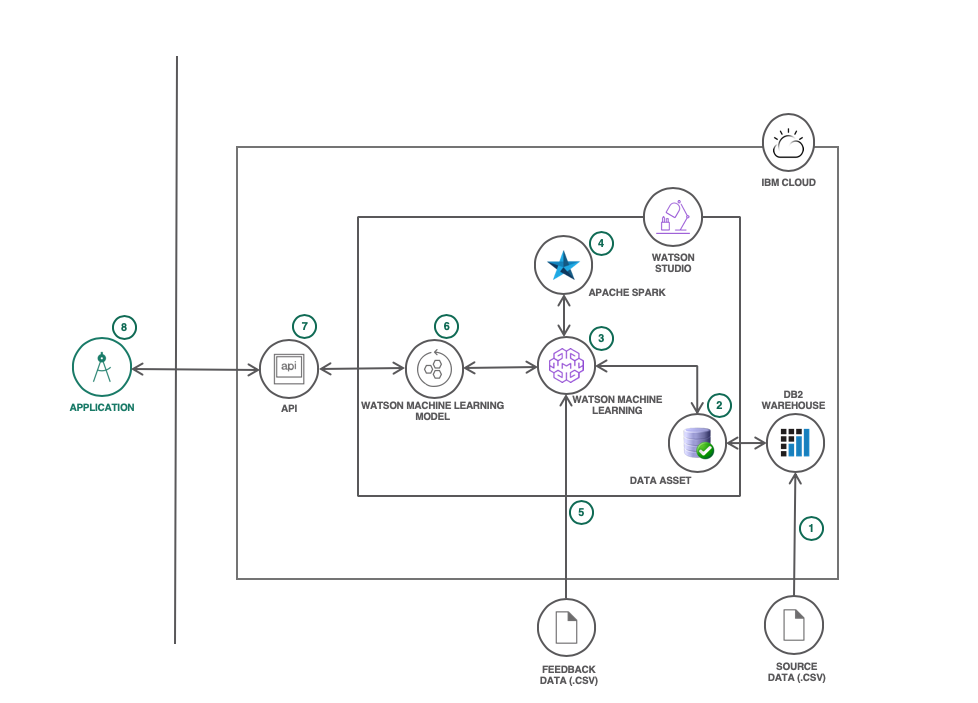
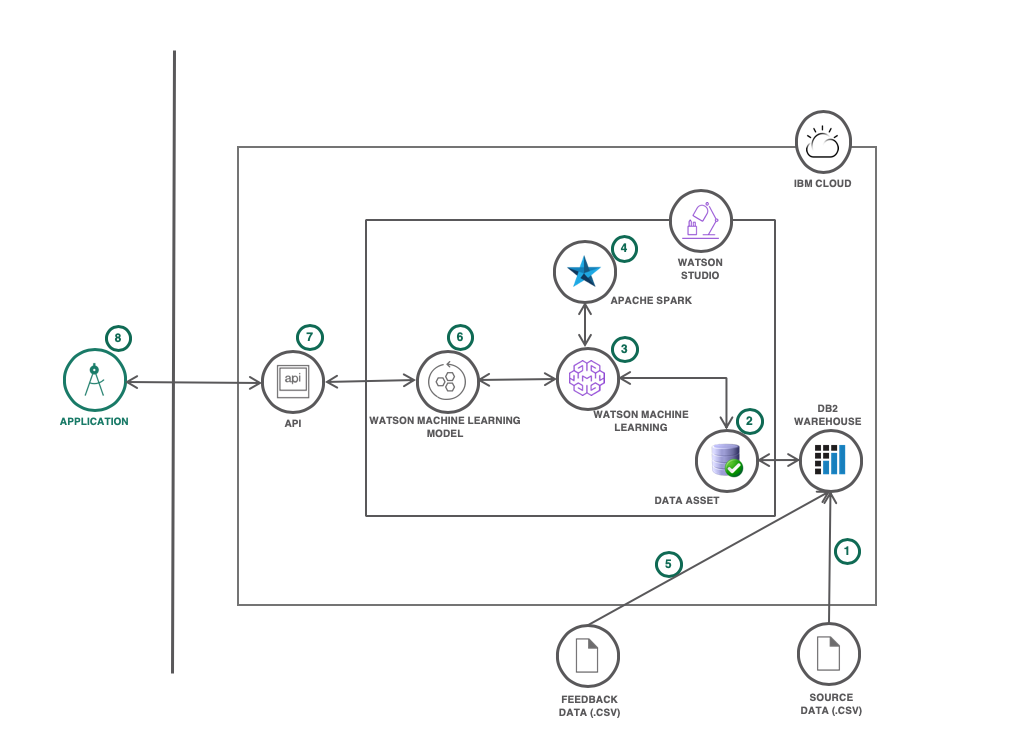
readme changes after adding data asset and feedback data from db2 warehouse

Changed region(s): [[0.0613, 0.0896, 0.8589, 0.9858], [0.2454, 0.1494, 0.8589, 0.2688], [0.5521, 0.6871, 0.6135, 0.7468]]

diff --git a/README.md b/README.md
@@ -18,7 +18,7 @@ When the reader has completed this Code Pattern, they will understand how to:
 2. The source data is then loaded, as data asset, into Watson Studio.
 3. The Watson Machine Learning service uses the source data and computes an evaluation using Apache Spark-as-a-service to create a machine learning model, and saves the evaluation information back to the Db2 Warehouse on Cloud database.
 4. Apache Spark-as-a-service to compute the evaluation.
-5. Feedback data is uploaded to Watson machine learning service to continuously learn and evaluate the new data.
+5. Feedback data is uploaded to the feedback table in DB2 warehouse.
 6. Once the evaluation is done the Watson Machine Learning service creates a machine learning model.
 7. The model data is exposed through an API.
 8. Applications can use the API to evaluate new data and create a new model based on continuous learning.
@@ -40,7 +40,7 @@ When the reader has completed this Code Pattern, they will understand how to:
 
 # Watch the Video
 
-[![](http://img.youtube.com/vi/HCVxGMd1RiQ/0.jpg)](https://www.youtube.com/watch?v=HCVxGMd1RiQ)
+coming soon
 
 
 # Steps
@@ -49,14 +49,15 @@ The setup is done in 3 primary steps.  You will download the code, setup the app
 
 1. [Clone the repo](#1-clone-the-repo)
 2. [Create Watson Studio Project](#2-create-watson-studio-project)
-3. [Add and Refine data asset into Watson Studio](#3-add-and-refine-data-asset-into-watson-studio)
-4. [Create a Db2 Warehouse on Cloud database and add the connection to Watson Studio](#4-create-db2-warehouse-on-cloud-and-add-the-connection-to-watson-studio)
-5. [Create Apache Spark as a service with IBM Cloud](#5-create-apache-spark-as-a-service-with-ibm-cloud)
-6. [Create Watson Machine Learning with IBM Cloud](#6-create-watson-machine-learning-with-ibm-cloud)
-7. [Add new Watson Machine Learning Model to Watson Studio](#7-add-new-watson-machine-learning-model-to-watson-studio)
-8. [Add Feedback data and new evaluations to the continuously learning model](#8-add-feedback-data-and-new-evaluations-to-the-continuously-learning-model)
-9. [Deploy the model to expose it through an API](#9-deploy-the-model-to-expose-it-through-an-api)
-10. [Test the model](#10-test-the-model)
+3. [Create DB2 warehouse on cloud and add the connection to Watson Studio](#3-create-db2-warehouse-on-cloud-and-add-the-connection-to-watson-studio)
+4. [Create and load data to DB2 warehouse](#4-create-and-load-data-to-db2-warehouse)
+5. [Add connected asset into Watson Studio](#5-add-connected-asset-into-watson-studio)
+6. [Create Apache Spark as a service with IBM Cloud](#6-create-apache-spark-as-a-service-with-ibm-cloud)
+7. [Create Watson Machine Learning with IBM Cloud](#7-create-watson-machine-learning-with-ibm-cloud)
+8. [Add new Watson Machine Learning Model to Watson Studio](#8-add-new-watson-machine-learning-model-to-watson-studio)
+9. [Add Feedback data and new evaluations to the continuously learning model](#9-add-feedback-data-and-new-evaluations-to-the-continuously-learning-model)
+10. [Deploy the model to expose it through an API](#10-deploy-the-model-to-expose-it-through-an-api)
+11. [Test the model](#11-test-the-model)
 
 
 ### 1. Clone the repo
@@ -87,19 +88,7 @@ Create a new Project by clicking the `New Project` link, choose `Complete`, give
 ![](doc/source/images/watson-studio-3.png)
 
 
-### 3. Add and Refine data asset into Watson Studio
-
-In Watson Studio, go to your project and select the `Assets` tab. From the right navigation panel, click `Browse` to upload your source data that will be used by the machine learning service to create a machine learning model.
-
-![](doc/source/images/data-asset-1.png)
-
-Select the uploaded data file (`.csv`). At the top right, click `Refine`. We don't need to manipulate the data, so simply click the "run" button labeled with a ▶ icon at the top right. The data flow output will show that you're creating a CSV file, which will be saved into your object storage bucket. Click `Save and Run`.
-
-![](doc/source/images/data-asset-3.png)
-
-![](doc/source/images/data-asset-2.png)
-
-### 4. Create a DB2 Warehouse on Cloud database and add the connection to Watson Studio
+### 3. Create DB2 warehouse on cloud and add the connection to Watson Studio
 
 From the IBM Cloud catalog search for `DB2 Warehouse on Cloud` and create one using the appropriate plan.
 ![](doc/source/images/db2-1.png)
@@ -117,7 +106,50 @@ Select `Db2 Warehouse` from the available options to connect to Db2 warehouse yo
 Configure the connection based on the DB2 credentials you saved earlier.
 ![](doc/source/images/db2-5.png)
 
-### 5. Create Apache Spark as a service with IBM Cloud
+### 4. Create and load data to DB2 warehouse
+
+From the IBM DB2 warehouse service page, click `Manage` and  click `Open` to go to `IBM Db2 Warehouse on Cloud` console.
+![](doc/source/images/db2-platform-1.png)
+
+Open the hamburger menu and select `RUN SQL` to open up a SQL editor.
+![](doc/source/images/db2-platform-2.png)
+
+In the sql editor, copy the SQL statement from the ![violations.sql](violations.sql) file and click `Run All` option from the `RUN` drop down list at the top right.
+![](doc/source/images/db2-platform-3.png)
+
+Similarly, copy the SQL statement from the ![violations_feedback.sql](violations_feedback.sql) file into the SQL editor and click `Run All` option from the `RUN` drop down list at the top right.
+![](doc/source/images/db2-platform-4.png)
+
+> Note that `"_training"` column should be lower case in the create statement and in the trigger.
+
+Next we will be loading the `violations` table from a CSV file. Cick `LOAD` from the hamburger menu, which will bring you to a page where you can upload `.csv` file.
+![](doc/source/images/db2-platform-5.png)
+
+Browse the ![buildings_source_inspection_data_2017.csv](buildings_source_inspection_data_2017.csv) from your project directory that you cloned earlier and click `Next`.
+![](doc/source/images/db2-platform-6.png)
+
+Choose the correct `Schema`, table `VIOLATIONS` and click `Next`.
+![](doc/source/images/db2-platform-7.png)
+
+Click `Next` on the next screen and click `Begin Load` to load the source data from the `CSV` file to the `VIOLATIONS` table.
+![](doc/source/images/db2-platform-8.png)
+
+### 5. Add connected asset into Watson Studio
+
+In Watson Studio, go to your project and select the `+ Add to Project` and select `Connected assets` option from the dropdown list.
+
+![](doc/source/images/connected-asset.png)
+
+Provide a name, and click `Select source`
+
+![](doc/source/images/connected-asset-1.png)
+
+Choose the DB2 `database` and the `table` that you created in the previous step. Click `Create`.
+![](doc/source/images/connected-asset-2.png)
+
+In the next screen, click `Create` to create the connected asset which will be used during creating of Watson machine learning model.
+
+### 6. Create Apache Spark as a service with IBM Cloud
 
 From the catalog in IBM Cloud, search for keyword `spark` and choose `Apache Spark` service.
 ![](doc/source/images/spark-1.png)
@@ -133,7 +165,7 @@ Once created, we need to add this service to Watson Studio. Go to your  Watson s
 ![](doc/source/images/spark-5.png)
 
 
-### 6. Create Watson Machine Learning with IBM Cloud
+### 7. Create Watson Machine Learning with IBM Cloud
 From the catalog in IBM Cloud, search for keyword `machine learning` and choose `IBM Machine Learning` service.
 ![](doc/source/images/ml-1.png)
 
@@ -142,7 +174,7 @@ Create the service using `lite` plan.
 
 Similar to the previous Step 5, Add the machine learning service you just created to your Watson Studio project.
 
-### 7. Add new Watson Machine Learning Model to Watson Studio
+### 8. Add new Watson Machine Learning Model to Watson Studio
 
 From the `Assets` tab of your Watson Studio project, select `+ New Watson Machine Learning Model`
 ![](doc/source/images/wmlm-1.png)
@@ -160,15 +192,18 @@ Once the training and evaluation is done, you can choose the one that performed 
 ![](doc/source/images/wmlm-5.png)
 
 
-### 8. Add Feedback data and new evaluations to the continuously learning model
+### 9. Add Feedback data and new evaluations to the continuously learning model
 
 Once the Watson Machine Learning Model is saved, select the `Evaluation` tab. First we need to configure the performance monitoring. 
 ![](doc/source/images/wmlm-6.png)
 * Select the `Configure Performance Monitoring` link
 ![](doc/source/images/wmlm-7.png)
+
 * Add the spark service to your watson studio project
 * Choose `areaUnderPR` (performance metric of the model) and select the threshold as 0.8. This means if the performance is under 0.8, the model needs to be re-trained using all the source data and new data and hence continuous learning.
 * Use `500` as record count and click `Save`.
+* For `Auto Retrain` select  `when model performance is below threshold`
+* For `Auto Deploy` select `when performance is better than previous model`
 * Add the connection by selecting `Select Feedback Reference Data` and select the DB2 connection that you previously created.
 ![](doc/source/images/feedback-data-2.png)
 
@@ -178,14 +213,14 @@ Once the Watson Machine Learning Model is saved, select the `Evaluation` tab. Fi
 * Once the feedback data is loaded, select `New Evaluation` to evaluate the uploaded feedback data. You can unzip the provided data [Chicago building inspection data by month 2017](building_inspection_data_by_month_2017.zip) in the repo and use that monthly inspection data as feedback data.
 ![](doc/source/images/new-evaluation.png)
 
-* When the evaluation is completed we can see where the threshold value lies for this new feedback data.
-![](doc/source/images/evaluation_completion.png)
+* When the evaluation is completed we can see where the threshold value lies for this new feedback data. Diagram below shows that the performance exceeds the threshold value and hence the new version of the model is automatically deployed.
+![](doc/source/images/evaluation_completion-2.png)
 
 * You can also see the list of evaluations that have been completed and see how the model has been continuously learning
 ![](doc/source/images/evaluation_completion-1.png)
 * You can upload new feedback data repeatedly from the provided data [Chicago building inspection data by month 2017](building_inspection_data_by_month_2017.zip) so that the model continuously learns.
 
-### 9. Deploy the model to expose it through an API
+### 10. Deploy the model to expose it through an API
 
 * Select the model, and then select `Deployments` tab. Click `+ Add Deployment` to add a new deployment,
 ![](doc/source/images/deployment-1.png)
@@ -194,7 +229,7 @@ Once the Watson Machine Learning Model is saved, select the `Evaluation` tab. Fi
 * Now the model is exposed through and API. If you select `Impelementation` tab you can see differnt examples on how to use the newly created API.
 ![](doc/source/images/deployment-3.png)
 
-### 10. Test the model
+### 11. Test the model
 
 You can access and test the API programmatically, or use curl commands. You can also go to the `Test` tab and provide a new set of data to evaluate the inspection status.
 ![](doc/source/images/deployment-test.png)
